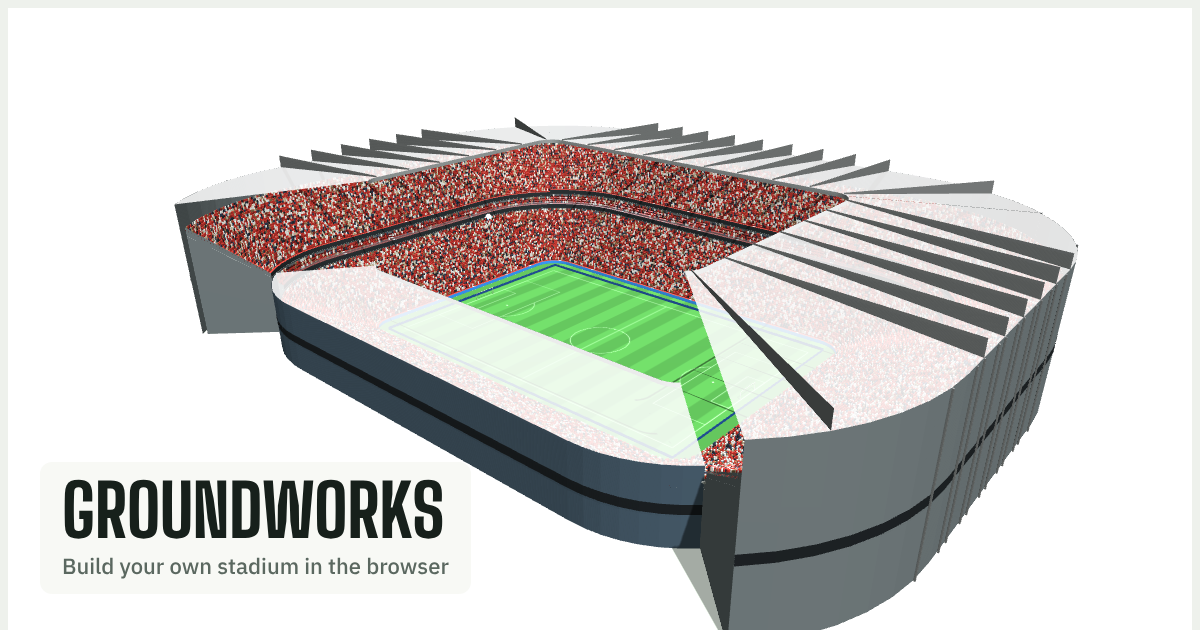
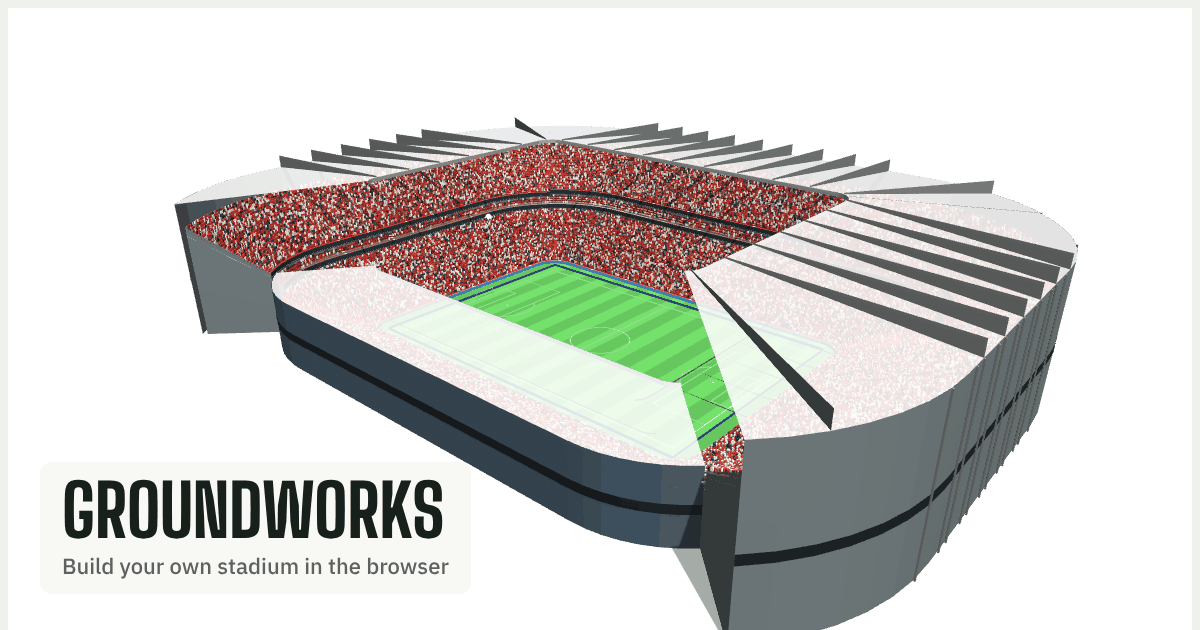
Open instantly on repeat visits (show the kept copy, update in the background) and a smaller link-preview picture (453 KB to 128 KB)
Claude-Session: https://claude.ai/code/session_015brxYwbNeRmt1dGnAAMxvF

diff --git a/sw.js b/sw.js
@@ -1,6 +1,7 @@
-// Offline support. Always tries the network first so people get the latest version, and falls back to the last
-// copy it kept when there's no connection. Bump VERSION if the list of files changes.
-const VERSION = "groundworks-1";
+// Offline support and instant opening. The copy kept from the last visit is shown straight away, and the latest
+// version is fetched quietly in the background, ready for the next visit. With no kept copy (a first visit) it comes
+// from the network; with no connection, the kept copy still works. Bump VERSION if the list of files changes.
+const VERSION = "groundworks-2";
 const FILES = ["./", "index.html", "icon.svg", "icon-192.png", "manifest.webmanifest"];
 self.addEventListener("install", e => { e.waitUntil(caches.open(VERSION).then(c => c.addAll(FILES)).then(() => self.skipWaiting())); });
 self.addEventListener("activate", e => {
@@ -9,8 +10,10 @@ self.addEventListener("activate", e => {
 self.addEventListener("fetch", e => {
   const req = e.request;
   if (req.method !== "GET" || new URL(req.url).origin !== location.origin) return;
-  e.respondWith(fetch(req).then(res => {
-    if (res.ok) { const copy = res.clone(); caches.open(VERSION).then(c => c.put(req, copy)); }
+  const fresh = fetch(req).then(res => {
+    if (res.ok) { const copy = res.clone(); return caches.open(VERSION).then(c => c.put(req, copy)).then(() => res); }
     return res;
-  }).catch(() => caches.match(req, { ignoreSearch: true }).then(hit => hit || caches.match("index.html"))));
+  });
+  e.waitUntil(fresh.catch(() => {})); // let the background update finish after the kept copy has been shown
+  e.respondWith(caches.match(req, { ignoreSearch: true }).then(hit => hit || fresh.catch(() => caches.match("index.html"))));
 });
